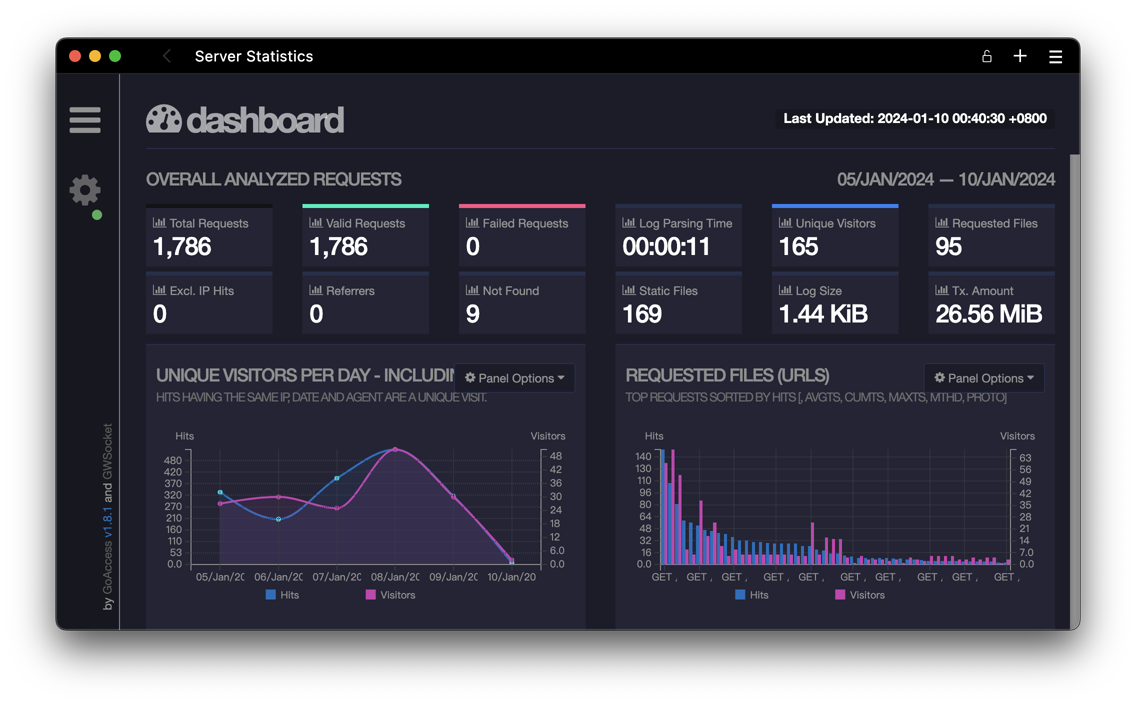
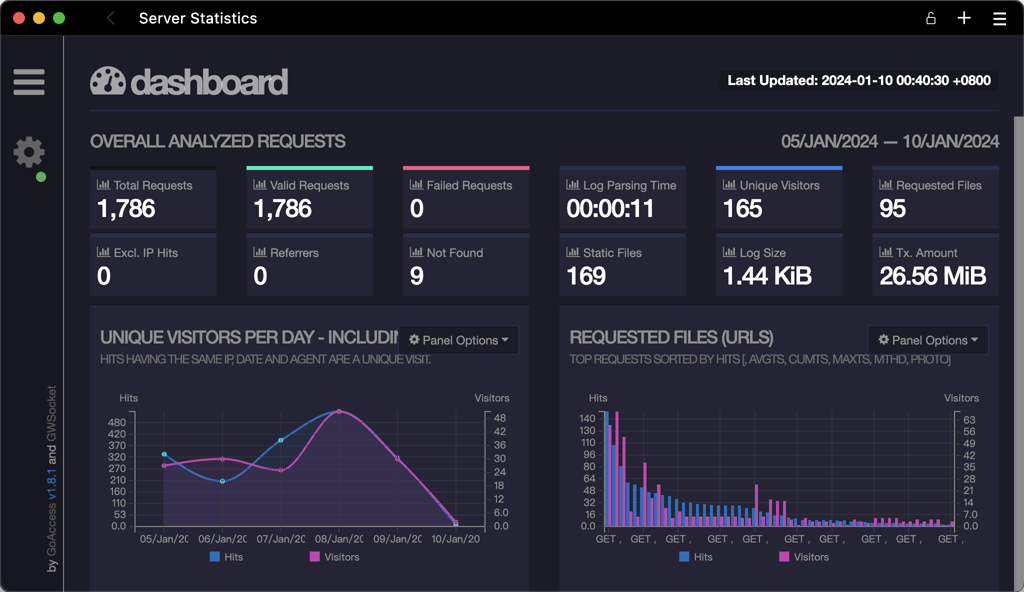
assets: update img style, also update some screenshots

diff --git a/assets/core.scss b/assets/core.scss
@@ -1,0 +1,12 @@
+---
+# Add custom CSS under the original `core.scss` file.
+---
+
+@import 'main';
+@import 'syntax';
+
+// Custom CSS
+img {
+    border-radius: 10px;
+    box-shadow: 2px 2px 4px rgba(0, 0, 0, 0.4);
+}
